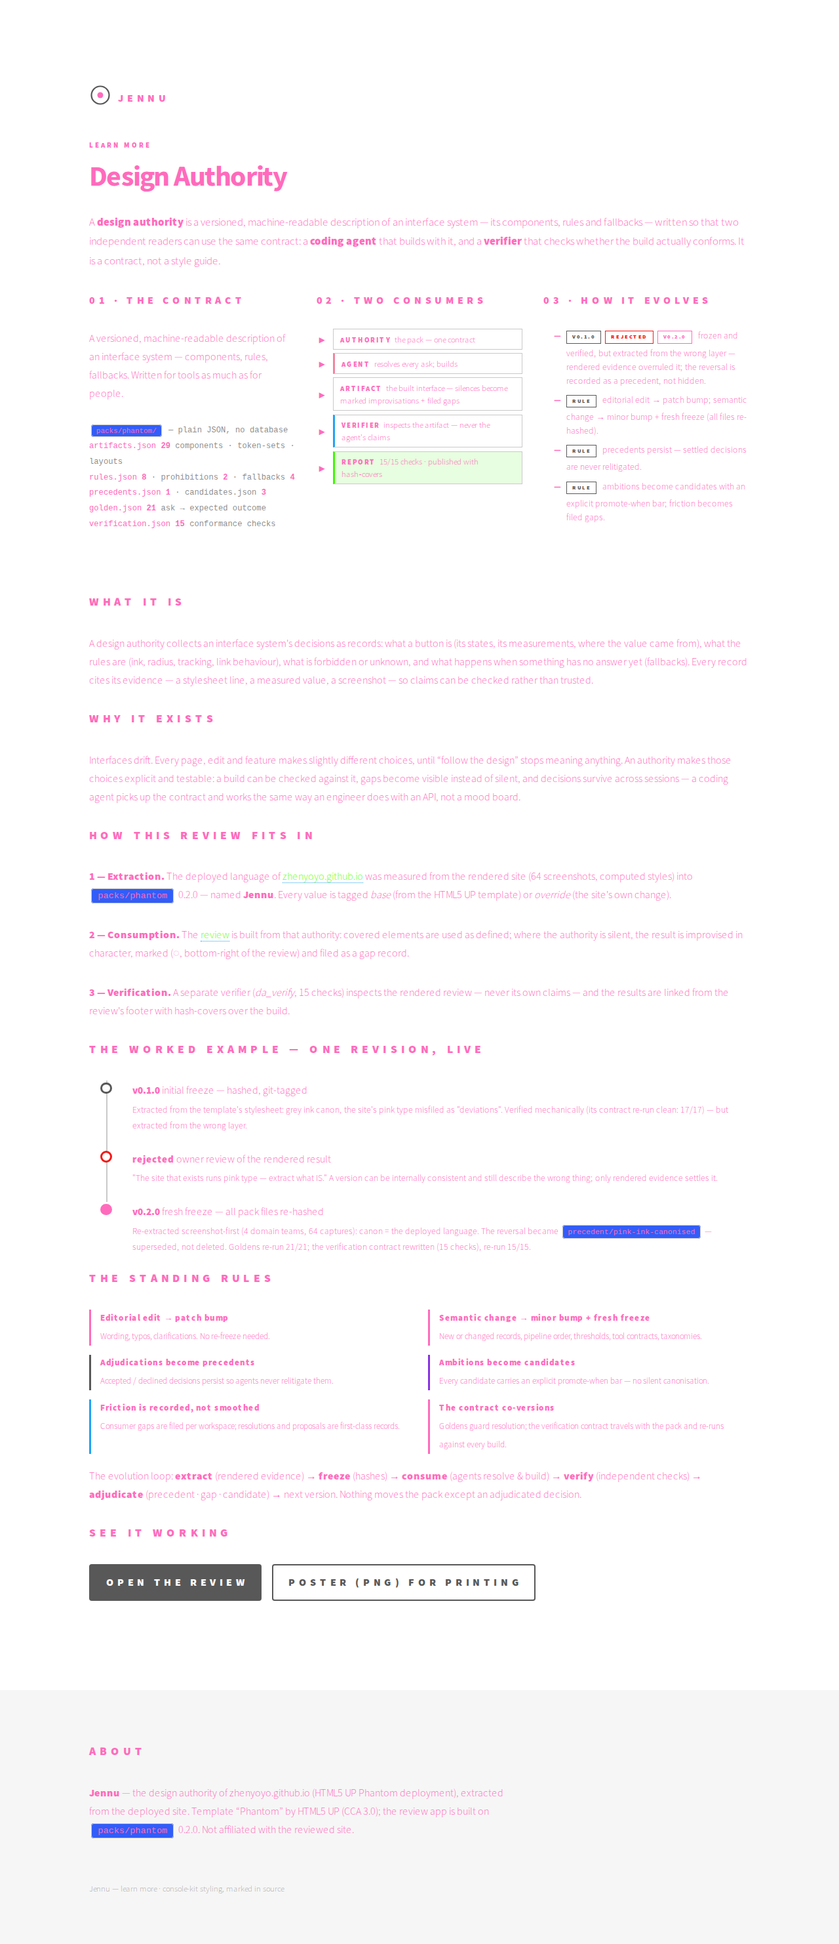
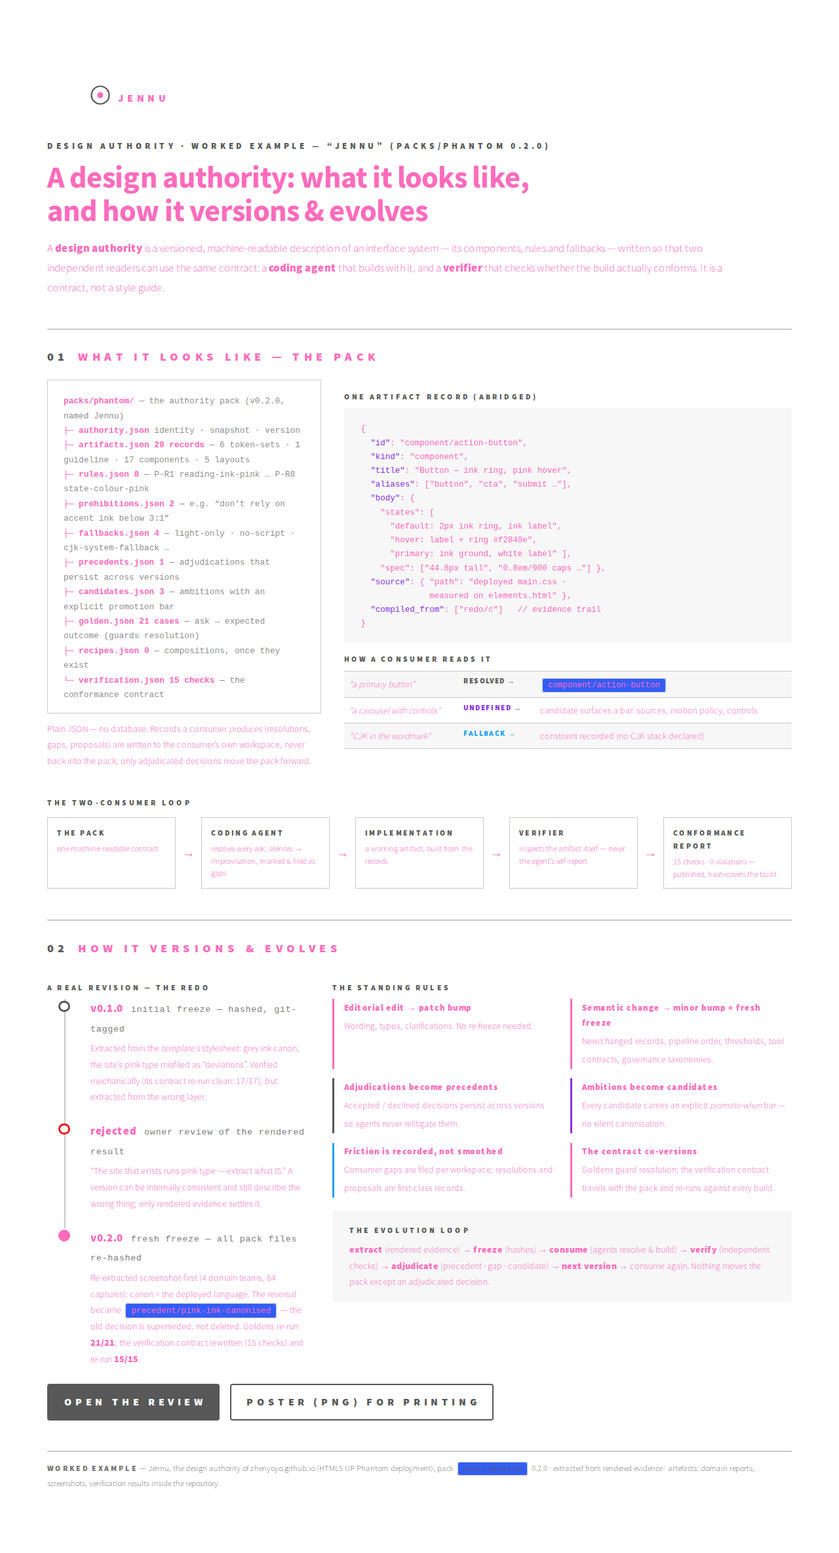
learn page: rebuild to mirror the poster layout exactly (pack tree, artifact record, consumer loop, timeline, rules grid) as live elements

diff --git a/examples/phantom-audit/learn.html b/examples/phantom-audit/learn.html
@@ -1,8 +1,9 @@
 <!DOCTYPE HTML>
 <!--
   Learn more — Design Authority (the Jennu review, phantom-audit v2).
-  A standalone page: same deployed language as the review (assets/css/main.css),
-  explainer blocks styled by the console kit (assets/css/console.css). No JS required.
+  This page mirrors the one-page poster layout exactly (sections 01/02, file tree,
+  artifact record, consumer loop, timeline, rules grid) — as live elements, no JS.
+  Shell: assets/css/main.css (deployed language); poster styling: this page's <style>.
 -->
 <html lang="en">
 	<head>
@@ -12,9 +13,63 @@
 		<meta name="robots" content="noindex, nofollow" />
 		<link rel="stylesheet" href="assets/css/fontawesome-all.min.css" />
 		<link rel="stylesheet" href="assets/css/main.css" />
-		<link rel="stylesheet" href="assets/css/console.css" />
+		<style>
+			/* ===== the poster layout, live (page-local) ===== */
+			.poster-page #main > .inner { max-width: 76em; }
+			.poster .kicker { font-size: 0.82em; font-weight: 900; letter-spacing: 0.35em; text-transform: uppercase; color: #585858; margin-bottom: 0.7em; }
+			.poster h1 { font-size: 2.9em; line-height: 1.1; letter-spacing: -0.02em; margin: 0 0 0.4em 0; }
+			.poster .lede { font-size: 1.06em; max-width: 62em; margin-bottom: 0.6em; }
+			.poster h2 { font-size: 1.14em; font-weight: 900; letter-spacing: 0.35em; text-transform: uppercase; color: #ff6bbc; border-top: solid 2px #c9c9c9; padding-top: 1.5em; margin: 2.6em 0 1.2em 0; }
+			.poster h2 .n { color: #585858; margin-right: 0.8em; }
+			.poster h3 { font-size: 0.72em; font-weight: 900; letter-spacing: 0.28em; text-transform: uppercase; color: #585858; margin: 1.5em 0 0.7em 0; }
+			.poster .cols { display: flex; gap: 2.2em; align-items: flex-start; flex-wrap: wrap; }
+			.poster .col { flex: 1 1 20em; min-width: 0; }
+			.poster .panel { background: rgba(144,144,144,0.075); padding: 1.4em 1.6em 1.1em 1.6em; }
+			.poster .panel.white { background: #fff; border: solid 1px #c9c9c9; padding: 1.3em 1.5em 1em 1.5em; }
+			.poster .filetree { font-family: "Courier New", monospace; font-size: 0.8em; line-height: 1.75; word-break: break-word; }
+			.poster .filetree b { font-weight: 700; }
+			.poster .filetree .c { color: rgba(88,88,88,0.7); }
+			.poster .filetree .cnt { color: #ff6bbc; font-weight: 700; }
+			.poster .record { font-family: "Courier New", monospace; font-size: 0.78em; line-height: 1.7; white-space: pre; overflow-x: auto; }
+			.poster .record .k { color: #8833e3; }
+			.poster .record .s { color: #ff6bbc; }
+			.poster table.asks { width: 100%; border-collapse: collapse; font-size: 0.86em; margin: 0.4em 0 0.6em 0; }
+			.poster table.asks td { padding: 0.5em 0.6em; border-bottom: solid 1px #c9c9c9; vertical-align: top; }
+			.poster table.asks tr:last-child td { border-bottom: 0; }
+			.poster table.asks .out { font-weight: 900; font-size: 0.82em; letter-spacing: 0.12em; text-transform: uppercase; white-space: nowrap; }
+			.poster table.asks .out.resolved { color: #585858; }
+			.poster table.asks .out.undef { color: #8833e3; }
+			.poster table.asks .out.fallback { color: #20a3f5; }
+			.poster .flow { display: flex; align-items: stretch; margin: 0.8em 0 0.4em 0; flex-wrap: wrap; }
+			.poster .flow .step { flex: 1 1 9em; border: solid 1px #c9c9c9; padding: 0.8em 0.9em 0.7em 0.9em; }
+			.poster .flow .step b { display: block; font-size: 0.72em; font-weight: 900; letter-spacing: 0.2em; text-transform: uppercase; color: #585858; margin-bottom: 0.4em; }
+			.poster .flow .step span { font-size: 0.78em; display: block; line-height: 1.5; }
+			.poster .flow .arr { flex: 0 0 2em; display: flex; align-items: center; justify-content: center; color: #ff6bbc; font-weight: 900; font-size: 1.2em; }
+			.poster ul.timeline { list-style: none; margin: 0.4em 0 0 0; }
+			.poster ul.timeline li { position: relative; padding: 0 0 1.6em 2.4em; border-left: solid 2px #c9c9c9; margin-left: 0.6em; }
+			.poster ul.timeline li::before { content: ""; position: absolute; left: -0.65em; top: 0.15em; width: 1.1em; height: 1.1em; border-radius: 100%; background: #fff; border: solid 3px #585858; box-sizing: border-box; }
+			.poster ul.timeline li.v2::before { border-color: #ff6bbc; background: #ff6bbc; }
+			.poster ul.timeline li.bad::before { border-color: #f51616; }
+			.poster ul.timeline li:last-child { border-left-color: transparent; padding-bottom: 0; }
+			.poster ul.timeline .ver { font-size: 1.05em; font-weight: 900; letter-spacing: 0.04em; }
+			.poster ul.timeline .tag { font-family: "Courier New", monospace; font-size: 0.8em; color: rgba(88,88,88,0.8); font-weight: 400; margin-left: 0.6em; }
+			.poster ul.timeline p { font-size: 0.88em; margin: 0.3em 0 0 0; }
+			.poster .rules { display: grid; grid-template-columns: 1fr 1fr; gap: 0.9em 1.6em; margin: 0.4em 0 0.4em 0; }
+			.poster .rules .r { border-left: solid 3px #ff6bbc; padding: 0.15em 0 0.15em 0.9em; }
+			.poster .rules .r.grey { border-left-color: #585858; }
+			.poster .rules .r.blue { border-left-color: #20a3f5; }
+			.poster .rules .r.purple { border-left-color: #8833e3; }
+			.poster .rules .r b { display: block; font-size: 0.82em; letter-spacing: 0.04em; }
+			.poster .rules .r span { font-size: 0.84em; line-height: 1.5; }
+			.poster .evoloop { margin-top: 1.2em; }
+			.poster .evoloop p { font-size: 0.88em; margin: 0; }
+			.poster .footer { margin-top: 3em; border-top: solid 2px #c9c9c9; padding-top: 1em; font-size: 0.8em; color: rgba(88,88,88,0.85); }
+			.poster .footer b { letter-spacing: 0.2em; text-transform: uppercase; font-size: 0.92em; }
+			.poster .actions { margin-top: 1.6em; }
+			@media screen and (max-width: 980px) { .poster .flow { flex-direction: column; } .poster .flow .arr { transform: rotate(90deg); flex-basis: 1.6em; } .poster .rules { grid-template-columns: 1fr; } }
+		</style>
 	</head>
-	<body>
+	<body class="poster-page">
 		<div id="wrapper">
 
 			<!-- Header -->
@@ -29,124 +84,138 @@
 			<!-- Main -->
 				<div id="main">
 					<div class="inner">
+						<div class="poster">
 
-						<section>
-							<header>
-								<div class="ag-kicker">Learn more</div>
-								<h1>Design Authority</h1>
-								<p class="lede-ish">A <strong>design authority</strong> is a versioned, machine-readable description of an interface
-								system — its components, rules and fallbacks — written so that two independent readers can use the same contract:
-								a <strong>coding agent</strong> that builds with it, and a <strong>verifier</strong> that checks whether the build
-								actually conforms. It is a contract, not a style guide.</p>
-							</header>
+							<div class="kicker">Design Authority · worked example — “Jennu” (packs/phantom 0.2.0)</div>
+							<h1>A design authority: what it looks like,<br/>and how it versions &amp; evolves</h1>
+							<p class="lede">A <strong>design authority</strong> is a versioned, machine-readable description of an interface
+							system — its components, rules and fallbacks — written so that two independent readers can use the same contract:
+							a <strong>coding agent</strong> that builds with it, and a <strong>verifier</strong> that checks whether the build
+							actually conforms. It is a contract, not a style guide.</p>
 
-							<section class="aglance" data-improvised data-mk="explainer at a glance (console kit)" style="border-bottom: none;">
-								<div class="ag-cols">
-									<div class="ag-col">
-										<h3>01 · The contract</h3>
-										<p>A versioned, machine-readable description of an interface system — components, rules, fallbacks. Written for tools as much as for people.</p>
-										<div class="filelist">
-<code>packs/phantom/</code> <span class="c">— plain JSON, no database</span><br/>
-artifacts.json <span class="cnt">29</span> <span class="c">components · token-sets · layouts</span><br/>
-rules.json <span class="cnt">8</span> <span class="c">· prohibitions <span class="cnt">2</span> · fallbacks <span class="cnt">4</span></span><br/>
-precedents.json <span class="cnt">1</span> <span class="c">· candidates.json <span class="cnt">3</span></span><br/>
-golden.json <span class="cnt">21</span> <span class="c">ask → expected outcome</span><br/>
-verification.json <span class="cnt">15</span> <span class="c">conformance checks</span>
+							<!-- ======================== 01 ======================== -->
+							<h2><span class="n">01</span>What it looks like — the pack</h2>
+							<div class="cols">
+								<div class="col" style="flex:1.15">
+									<div class="panel white">
+										<div class="filetree">
+<b>packs/phantom/</b> <span class="c">— the authority pack (v0.2.0, named Jennu)</span><br/>
+├─ <b>authority.json</b> <span class="c">identity · snapshot · version</span><br/>
+├─ <b>artifacts.json</b> <span class="cnt">29 records</span> <span class="c">— 6 token-sets · 1 guideline · 17 components · 5 layouts</span><br/>
+├─ <b>rules.json</b> <span class="cnt">8</span> <span class="c">— P-R1 reading-ink-pink … P-R8 state-colour-pink</span><br/>
+├─ <b>prohibitions.json</b> <span class="cnt">2</span> <span class="c">— e.g. “don’t rely on accent ink below 3:1”</span><br/>
+├─ <b>fallbacks.json</b> <span class="cnt">4</span> <span class="c">— light-only · no-script · cjk-system-fallback …</span><br/>
+├─ <b>precedents.json</b> <span class="cnt">1</span> <span class="c">— adjudications that persist across versions</span><br/>
+├─ <b>candidates.json</b> <span class="cnt">3</span> <span class="c">— ambitions with an explicit promotion bar</span><br/>
+├─ <b>golden.json</b> <span class="cnt">21 cases</span> <span class="c">— ask → expected outcome (guards resolution)</span><br/>
+├─ <b>recipes.json</b> <span class="cnt">0</span> <span class="c">— compositions, once they exist</span><br/>
+└─ <b>verification.json</b> <span class="cnt">15 checks</span> <span class="c">— the conformance contract</span>
 										</div>
 									</div>
-									<div class="ag-col">
-										<h3>02 · Two consumers</h3>
-										<div class="fstep"><span class="arr">▸</span><div class="fbox"><b>Authority</b>the pack — one contract</div></div>
-										<div class="fstep"><span class="arr">▸</span><div class="fbox l"><b>Agent</b>resolves every ask; builds</div></div>
-										<div class="fstep"><span class="arr">▸</span><div class="fbox"><b>Artifact</b>the built interface — silences become marked improvisations + filed gaps</div></div>
-										<div class="fstep"><span class="arr">▸</span><div class="fbox r"><b>Verifier</b>inspects the artifact — never the agent's claims</div></div>
-										<div class="fstep"><span class="arr">▸</span><div class="fbox report"><b>Report</b>15/15 checks · published with hash‑covers</div></div>
+									<p class="muted" style="font-size:0.86em; margin-top:0.8em;">Plain JSON — no database. Records a consumer <em>produces</em>
+									(resolutions, gaps, proposals) are written to the consumer’s own workspace, never back into the pack; only adjudicated
+									decisions move the pack forward.</p>
+								</div>
+
+								<div class="col">
+									<h3>One artifact record (abridged)</h3>
+									<div class="panel">
+<div class="record">{
+  <span class="k">"id"</span>: <span class="s">"component/action-button"</span>,
+  <span class="k">"kind"</span>: "component",
+  <span class="k">"title"</span>: "Button — ink ring, pink hover",
+  <span class="k">"aliases"</span>: ["button", "cta", "submit …"],
+  <span class="k">"body"</span>: {
+    "states": [
+      "default: 2px ink ring, ink label",
+      "hover: label + ring #f2849e",
+      "primary: ink ground, white label" ],
+    "spec": ["44.8px tall", "0.8em/900 caps …"] },
+  <span class="k">"source"</span>: { "path": "deployed main.css ·
+              measured on elements.html" },
+  <span class="k">"compiled_from"</span>: ["redo/c"]   <span class="c">// evidence trail</span>
+}</div>
 									</div>
-									<div class="ag-col">
-										<h3>03 · How it evolves</h3>
-										<ul class="evol">
-											<li><span class="chip chip--base">v0.1.0</span><span class="chip chip--fix">rejected</span><span class="chip chip--canon">v0.2.0</span> frozen and verified, but extracted from the wrong layer — rendered evidence overruled it; the reversal is recorded as a precedent, not hidden.</li>
-											<li><span class="chip">rule</span> editorial edit → patch bump; semantic change → minor bump + fresh freeze (all files re-hashed).</li>
-											<li><span class="chip">rule</span> precedents persist — settled decisions are never relitigated.</li>
-											<li><span class="chip">rule</span> ambitions become candidates with an explicit promote-when bar; friction becomes filed gaps.</li>
-										</ul>
+									<h3>How a consumer reads it</h3>
+									<table class="asks">
+										<tr><td><em>“a primary button”</em></td><td class="out resolved">resolved →</td><td><code>component/action-button</code></td></tr>
+										<tr><td><em>“a carousel with controls”</em></td><td class="out undef">undefined →</td><td>candidate surfaces a bar: sources, motion policy, controls</td></tr>
+										<tr><td><em>“CJK in the wordmark”</em></td><td class="out fallback">fallback →</td><td>constraint recorded (no CJK stack declared)</td></tr>
+									</table>
+								</div>
+							</div>
+
+							<h3>The two-consumer loop</h3>
+							<div class="flow">
+								<div class="step"><b>The pack</b><span>one machine-readable contract</span></div>
+								<div class="arr">→</div>
+								<div class="step"><b>Coding agent</b><span>resolves every ask; silences → improvisation, marked &amp; filed as gaps</span></div>
+								<div class="arr">→</div>
+								<div class="step"><b>Implementation</b><span>a working artifact, built from the records</span></div>
+								<div class="arr">→</div>
+								<div class="step"><b>Verifier</b><span>inspects the artifact itself — never the agent’s self-report</span></div>
+								<div class="arr">→</div>
+								<div class="step"><b>Conformance report</b><span>15 checks · 0 violations — published, hash‑covers the build</span></div>
+							</div>
+
+							<!-- ======================== 02 ======================== -->
+							<h2><span class="n">02</span>How it versions &amp; evolves</h2>
+							<div class="cols">
+								<div class="col" style="flex:1.05">
+									<h3>A real revision — the redo</h3>
+									<ul class="timeline">
+										<li>
+											<div class="ver">v0.1.0 <span class="tag">initial freeze — hashed, git-tagged</span></div>
+											<p>Extracted from the <em>template’s</em> stylesheet: grey ink canon, the site’s pink type misfiled as “deviations”.
+											Verified mechanically (its contract re-run clean: 17/17), but extracted from the wrong layer.</p>
+										</li>
+										<li class="bad">
+											<div class="ver">rejected <span class="tag">owner review of the rendered result</span></div>
+											<p>“The site that exists runs pink type — extract what IS.” A version can be internally consistent and still
+											describe the wrong thing; only rendered evidence settles it.</p>
+										</li>
+										<li class="v2">
+											<div class="ver">v0.2.0 <span class="tag">fresh freeze — all pack files re-hashed</span></div>
+											<p>Re-extracted screenshot-first (4 domain teams, 64 captures): canon = the deployed language.
+											The reversal became <code>precedent/pink-ink-canonised</code> — the old decision is superseded, not deleted.
+											Goldens re-run <strong>21/21</strong>; the verification contract rewritten (15 checks) and re-run <strong>15/15</strong>.</p>
+										</li>
+									</ul>
+								</div>
+								<div class="col">
+									<h3>The standing rules</h3>
+									<div class="rules">
+										<div class="r"><b>Editorial edit → patch bump</b><span>Wording, typos, clarifications. No re-freeze needed.</span></div>
+										<div class="r"><b>Semantic change → minor bump + fresh freeze</b><span>New/changed records, pipeline order, thresholds, tool contracts, governance taxonomies.</span></div>
+										<div class="r grey"><b>Adjudications become precedents</b><span>Accepted / declined decisions persist across versions so agents never relitigate them.</span></div>
+										<div class="r purple"><b>Ambitions become candidates</b><span>Every candidate carries an explicit <em>promote-when</em> bar — no silent canonisation.</span></div>
+										<div class="r blue"><b>Friction is recorded, not smoothed</b><span>Consumer gaps are filed per workspace; resolutions and proposals are first-class records.</span></div>
+										<div class="r"><b>The contract co-versions</b><span>Goldens guard resolution; the verification contract travels with the pack and re-runs against every build.</span></div>
+									</div>
+									<div class="panel evoloop">
+										<h3 style="margin-top:0;">The evolution loop</h3>
+										<p><strong>extract</strong> (rendered evidence) → <strong>freeze</strong> (hashes) →
+										<strong>consume</strong> (agents resolve &amp; build) → <strong>verify</strong> (independent checks) →
+										<strong>adjudicate</strong> (precedent · gap · candidate) → <strong>next version</strong> → consume again.
+										Nothing moves the pack except an adjudicated decision.</p>
 									</div>
 								</div>
-							</section>
-
-							<h2>What it is</h2>
-							<p>A design authority collects an interface system's decisions as records: what a button is
-							(its states, its measurements, where the value came from), what the rules are (ink, radius,
-							tracking, link behaviour), what is forbidden or unknown, and what happens when something has
-							no answer yet (fallbacks). Every record cites its evidence — a stylesheet line, a measured
-							value, a screenshot — so claims can be checked rather than trusted.</p>
-
-							<h2>Why it exists</h2>
-							<p>Interfaces drift. Every page, edit and feature makes slightly different choices, until
-							“follow the design” stops meaning anything. An authority makes those choices explicit and
-							testable: a build can be checked against it, gaps become visible instead of silent, and
-							decisions survive across sessions — a coding agent picks up the contract and works the same
-							way an engineer does with an API, not a mood board.</p>
-
-							<h2>How this review fits in</h2>
-							<p><strong>1 — Extraction.</strong> The deployed language of
-							<a href="https://zhenyoyo.github.io/" target="_blank" rel="noopener">zhenyoyo.github.io</a>
-							was measured from the rendered site (64 screenshots, computed styles) into
-							<code>packs/phantom</code> 0.2.0 — named <strong>Jennu</strong>. Every value is tagged
-							<em>base</em> (from the HTML5 UP template) or <em>override</em> (the site's own change).</p>
-							<p><strong>2 — Consumption.</strong> The <a href="index.html">review</a> is built from that
-							authority: covered elements are used as defined; where the authority is silent, the result
-							is improvised in character, marked (◌, bottom-right of the review) and filed as a gap record.</p>
-							<p><strong>3 — Verification.</strong> A separate verifier (<em>da_verify</em>, 15 checks)
-							inspects the rendered review — never its own claims — and the results are linked from the
-							review's footer with hash-covers over the build.</p>
-
-							<h2>The worked example — one revision, live</h2>
-							<ul class="expl-timeline">
-								<li><span class="ver">v0.1.0</span> <span class="muted">initial freeze — hashed, git-tagged</span><p>Extracted from the template's stylesheet: grey ink canon, the site's pink type misfiled as "deviations". Verified mechanically (its contract re-run clean: 17/17) — but extracted from the wrong layer.</p></li>
-								<li class="bad"><span class="ver">rejected</span> <span class="muted">owner review of the rendered result</span><p>"The site that exists runs pink type — extract what IS." A version can be internally consistent and still describe the wrong thing; only rendered evidence settles it.</p></li>
-								<li class="v2"><span class="ver">v0.2.0</span> <span class="muted">fresh freeze — all pack files re-hashed</span><p>Re-extracted screenshot-first (4 domain teams, 64 captures): canon = the deployed language. The reversal became <code>precedent/pink-ink-canonised</code> — superseded, not deleted. Goldens re-run 21/21; the verification contract rewritten (15 checks), re-run 15/15.</p></li>
-							</ul>
-
-							<h2>The standing rules</h2>
-							<div class="expl-rules">
-								<div class="r"><b>Editorial edit → patch bump</b><span>Wording, typos, clarifications. No re-freeze needed.</span></div>
-								<div class="r"><b>Semantic change → minor bump + fresh freeze</b><span>New or changed records, pipeline order, thresholds, tool contracts, taxonomies.</span></div>
-								<div class="r grey"><b>Adjudications become precedents</b><span>Accepted / declined decisions persist so agents never relitigate them.</span></div>
-								<div class="r purple"><b>Ambitions become candidates</b><span>Every candidate carries an explicit promote-when bar — no silent canonisation.</span></div>
-								<div class="r blue"><b>Friction is recorded, not smoothed</b><span>Consumer gaps are filed per workspace; resolutions and proposals are first-class records.</span></div>
-								<div class="r"><b>The contract co-versions</b><span>Goldens guard resolution; the verification contract travels with the pack and re-runs against every build.</span></div>
 							</div>
-							<p>The evolution loop: <strong>extract</strong> (rendered evidence) → <strong>freeze</strong> (hashes) →
-							<strong>consume</strong> (agents resolve &amp; build) → <strong>verify</strong> (independent checks) →
-							<strong>adjudicate</strong> (precedent · gap · candidate) → next version. Nothing moves the pack except
-							an adjudicated decision.</p>
 
-							<h2>See it working</h2>
+							<!-- ======================== cta + footer ======================== -->
 							<ul class="actions">
 								<li><a href="index.html" class="button large primary">Open the review</a></li>
 								<li><a href="assets/explainer/design-authority.png" target="_blank" rel="noopener" class="button large">Poster (PNG) for printing</a></li>
 							</ul>
-						</section>
 
+							<div class="footer">
+								<b>Worked example</b> — Jennu, the design authority of zhenyoyo.github.io (HTML5 UP Phantom deployment), pack <code>packs/phantom</code> 0.2.0 ·
+								extracted from rendered evidence · artefacts: domain reports, screenshots, verification results inside the repository.
+							</div>
+
+						</div>
 					</div>
 				</div>
-
-			<!-- Footer -->
-				<footer id="footer">
-					<div class="inner">
-						<section>
-							<h2>About</h2>
-							<p><strong>Jennu</strong> — the design authority of zhenyoyo.github.io (HTML5 UP Phantom
-							deployment), extracted from the deployed site. Template “Phantom” by HTML5 UP (CCA 3.0);
-							the review app is built on <code>packs/phantom</code> 0.2.0. Not affiliated with the
-							reviewed site.</p>
-						</section>
-						<ul class="copyright">
-							<li>Jennu — learn more · console-kit styling, marked in source</li>
-						</ul>
-					</div>
-				</footer>
 
 		</div>
 	</body>

diff --git a/docs/synthesis/phantom/tools/app_test.py b/docs/synthesis/phantom/tools/app_test.py
@@ -136,10 +136,11 @@ with sync_playwright() as p:
     # learn page (pretty /learn in production; /learn.html in this harness)
     pg.goto(f"http://127.0.0.1:{port}/learn.html", wait_until="load")
     pg.wait_for_timeout(500)
-    check("learn page: h1 + worked example present",
-          pg.evaluate("(document.querySelector('h1') || {}).textContent") == "Design Authority"
-          and pg.evaluate("document.querySelectorAll('.expl-timeline li').length") == 3
-          and pg.evaluate("!!document.querySelector('.expl-rules .r')"))
+    check("learn page: poster layout live (h1 + timeline + rules + flow)",
+          "design authority" in (pg.evaluate("(document.querySelector('h1') || {}).textContent") or "").lower()
+          and pg.evaluate("document.querySelectorAll('.timeline li').length") == 3
+          and pg.evaluate("document.querySelectorAll('.rules .r').length") == 6
+          and pg.evaluate("document.querySelectorAll('.flow .step').length") == 5)
     pg.goto(f"http://127.0.0.1:{port}/index.html", wait_until="load")
     pg.wait_for_timeout(700)
 
